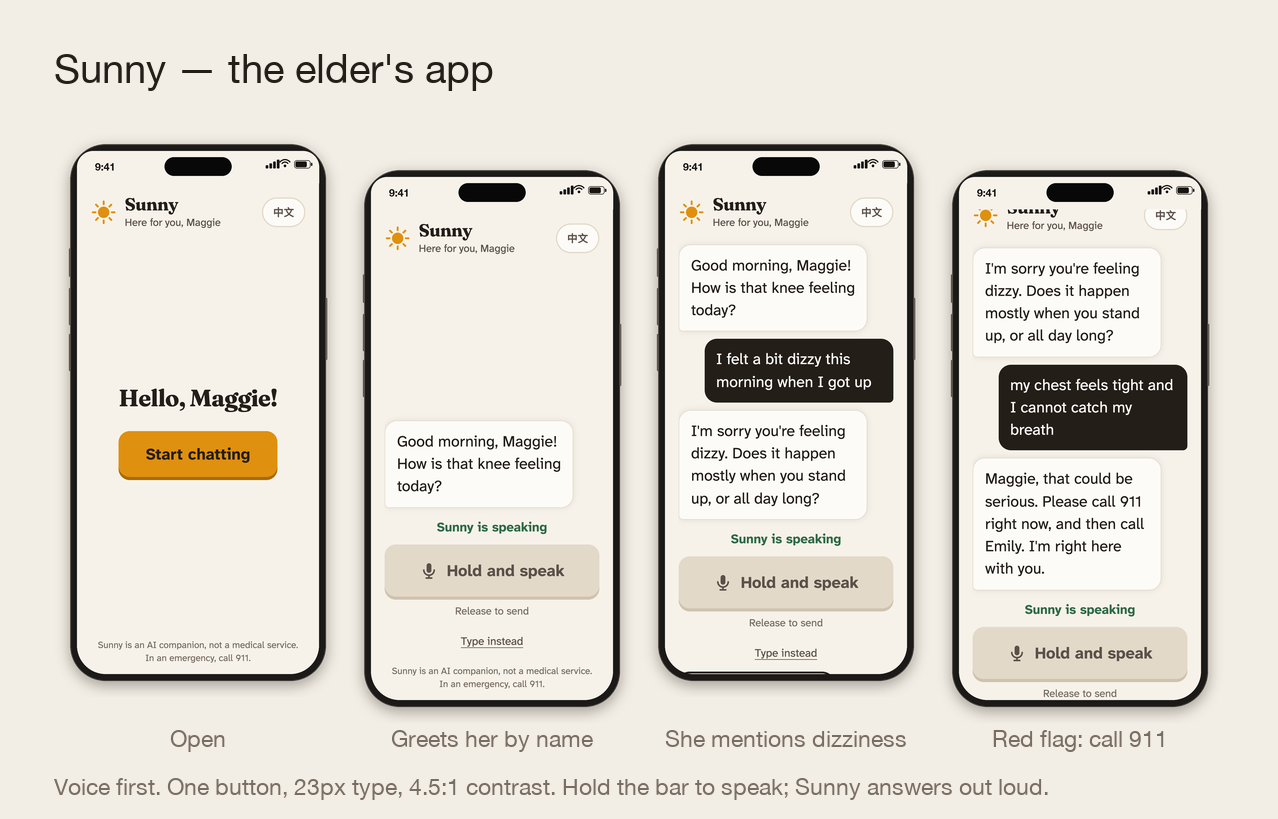
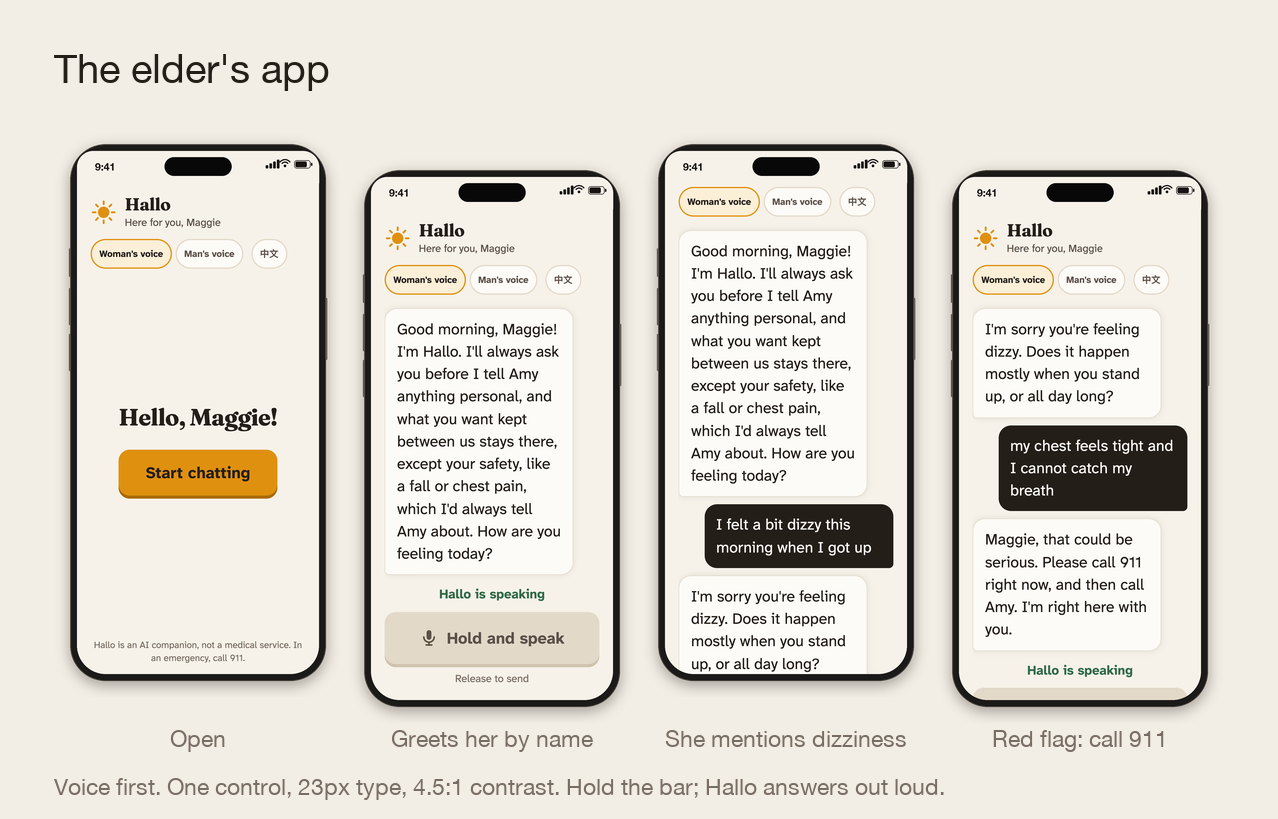
docs: a feature walkthrough with real screens
Anyone landing on the repo now has two ways in: the README shows the product in
two minutes, and docs/FEATURES.md walks through each feature with the screen it
produces. Every image is the running app captured by the screenshot script, not
a mockup, and all fourteen were retaken after the Hallo rename.

Covers what the merge brought together: the elder surface and its accessibility
numbers, the five dashboard tabs including Care with reminders and adherence,
privacy, the bilingual switch and what deliberately does not follow it,
installability, and the printable reports.

diff --git a/docs/FEATURES.md b/docs/FEATURES.md
@@ -1,0 +1,172 @@
+# What it does
+
+A walk through the product, one feature at a time, with the screen each one produces.
+Every image here is the running app, captured by `scripts/demo_shots.py` rather than drawn.
+
+Two apps share one server and one database. The elder installs **Hallo** on her phone; her
+family installs **Hallo Care** on theirs. Nothing is synced between two systems, because
+there is only one.
+
+![One system, two apps](images/hero.png)
+
+---
+
+## The elder's app
+
+### One screen, one control
+
+![Open and greet](images/e2-greeting.png)
+
+Opening the app greets her by name and by time of day, and picks up a thread from before:
+here, yesterday's knee. She never navigates. There is no menu, no tab bar, no settings she
+can get lost in — the only thing to do is hold the bar and talk, and the reply is read
+aloud.
+
+The numbers behind that screen are deliberate:
+
+| | |
+|---|---|
+| Body type | 23px |
+| Talk control | 84px tall, full width |
+| Lowest contrast ratio | 4.5:1 |
+| Typeface | Atkinson Hyperlegible, drawn for low vision |
+
+Those clear the floors in WeChat's Care Mode specification (22px body) and China's MIIT
+accessibility standard for apps (≥18dp, ≥1.3 line spacing, ≥4.5:1). The control is a bar
+rather than a round button because that is the shape this audience already has muscle
+memory for, from voice messages.
+
+### Symptoms come out of ordinary conversation
+
+![She mentions dizziness](images/e3-symptom.png)
+
+She is not filling in a health form. She mentions feeling dizzy, the way anyone would, and
+the companion responds like a person: one short sentence of concern, then exactly one
+question. Behind that turn, the symptom is extracted, given a severity and a status, and
+filed against a fixed catalogue.
+
+### It knows when to stop asking questions
+
+![A red flag](images/e4-emergency.png)
+
+Chest tightness with trouble breathing is a red flag. The companion does not ask a
+follow-up, does not guess a cause, and does not name a medicine. It tells her to call
+emergency services now, then to call her daughter, and says it is staying with her.
+
+The rule is in the prompt and covered by tests: never diagnose, never name a drug or dose,
+never tell her to start or stop a medication.
+
+---
+
+## The family's app
+
+![Five tabs](images/family-app.png)
+
+Five tabs, in the order a worried family member actually asks: how is she, what happened,
+what should the companion bring up next time, let me look, what did she say.
+
+### Today: one answer, not a wall of tiles
+
+![Today](images/f1-today.png)
+
+A written summary of her day in plain language, then the symptom timeline behind it. Quiet
+days collapse into a single row that still names the range it covers, so a week of nothing
+takes one line rather than seven, and nothing silently disappears from the record.
+
+From here the family can also open the printable weekly report, a doctor one-pager, and a
+memoir of her stories.
+
+### Alerts: everything that happened, in one stream
+
+![Alerts](images/f2-alerts.png)
+
+Chat symptoms and fall detections arrive in the same list, newest first, each quoting what
+she actually said or showing the frame the camera caught. An urgent alert pushes to the
+open dashboard over a live connection, switches to this tab on arrival, and badges it with
+the unread count.
+
+Siblings share one view: "I'll handle this" marks a claim, so two children do not both
+phone her about the same thing.
+
+### Care: what she is carrying, and what to bring up
+
+![Care](images/f3-care.png)
+
+The companion notices what she keeps returning to — people, worries, small plans — and
+lists it. Underneath, the family writes a reminder in their own words. The companion raises
+it in her next chat, repeating that wording, and never adds a dose or medical advice of its
+own. Her answers come back as a row of dots, one per day, so adherence reads at a glance
+and works in print and for a colour-blind reader.
+
+### Camera: fall detection, live
+
+![Camera](images/f4-camera.png)
+
+YOLO11-pose runs on the video and tracks each person's state. A person who goes down and
+stays down for three seconds raises an alert with the frame attached. The panel shows the
+annotated feed, and switches between a real camera and a demo playlist for rehearsal.
+
+Fall detection is a separate service exposed over MCP, so the dashboard, Claude Desktop and
+Cursor can all query it. The video reaches the page through the main app's own origin,
+which is what lets a phone see it at all: a phone cannot reach the detector's port, and an
+HTTPS page blocks a plain-HTTP image before the request is made.
+
+### Chat: the transcript
+
+![Chat](images/f5-chat.png)
+
+When the summary is not enough. Turns she asked to keep private appear marked rather than
+missing, so the family can see that something was held back instead of quietly not being
+there.
+
+---
+
+## Privacy is a feature, not a disclaimer
+
+"Keep this between us" removes that part of the conversation from every family view, while
+the companion still remembers it. Urgent safety alerts — a fall, chest pain — always go
+through, and she is told that up front.
+
+In the code, the privacy filter runs before anything is translated or formatted for
+display, so what she asked to keep private cannot reach the page in any language.
+
+---
+
+## Both languages, one switch
+
+![Bilingual](images/bilingual.png)
+
+The interface ships in English and Simplified Chinese. A switch in each header sets the
+language for that browser, so the elder can read Chinese while her family reads English.
+
+Two things deliberately do not follow the switch. The companion's replies and the daily
+summary follow the language **she** actually spoke. So does the line spoken back to her when
+speech could not be understood: a Chinese speaker hears Chinese even if her family set the
+dashboard to English.
+
+---
+
+## It installs like an app
+
+Both surfaces install to a phone home screen with their own name and icon, and open full
+screen with no browser chrome. The shell is precached, so the app still opens when the
+venue wifi drops; everything live — chat, alerts, the camera — always goes to the network
+and is never served from cache.
+
+A phone needs an HTTPS address to install; a LAN address will not do. See the README.
+
+---
+
+## On a laptop
+
+![Dashboard on a laptop](images/dashboard-laptop.png)
+
+The same dashboard, one column widened, with the tab bar out of the way because there is
+room for everything at once.
+
+The printable reports are built for paper:
+
+| Report | What it is |
+|---|---|
+| ![Weekly](images/l2-weekly.png) | Mood trend, most-discussed topics, symptom trends, reminder adherence |
+| ![Doctor](images/l3-doctor.png) | A one-pager for an appointment, assembled without an LLM |

diff --git a/README.md b/README.md
@@ -18,7 +18,8 @@ Both surfaces install to a phone home screen, in English or Simplified Chinese.
 
 > This product does not provide medical diagnosis.
 
-See [DEV_SPEC.md](DEV_SPEC.md) for the full design and development plan.
+A walk through every feature with screenshots: [docs/FEATURES.md](docs/FEATURES.md).
+The full design and development plan: [DEV_SPEC.md](DEV_SPEC.md).
 
 ## Try it in two minutes
 
